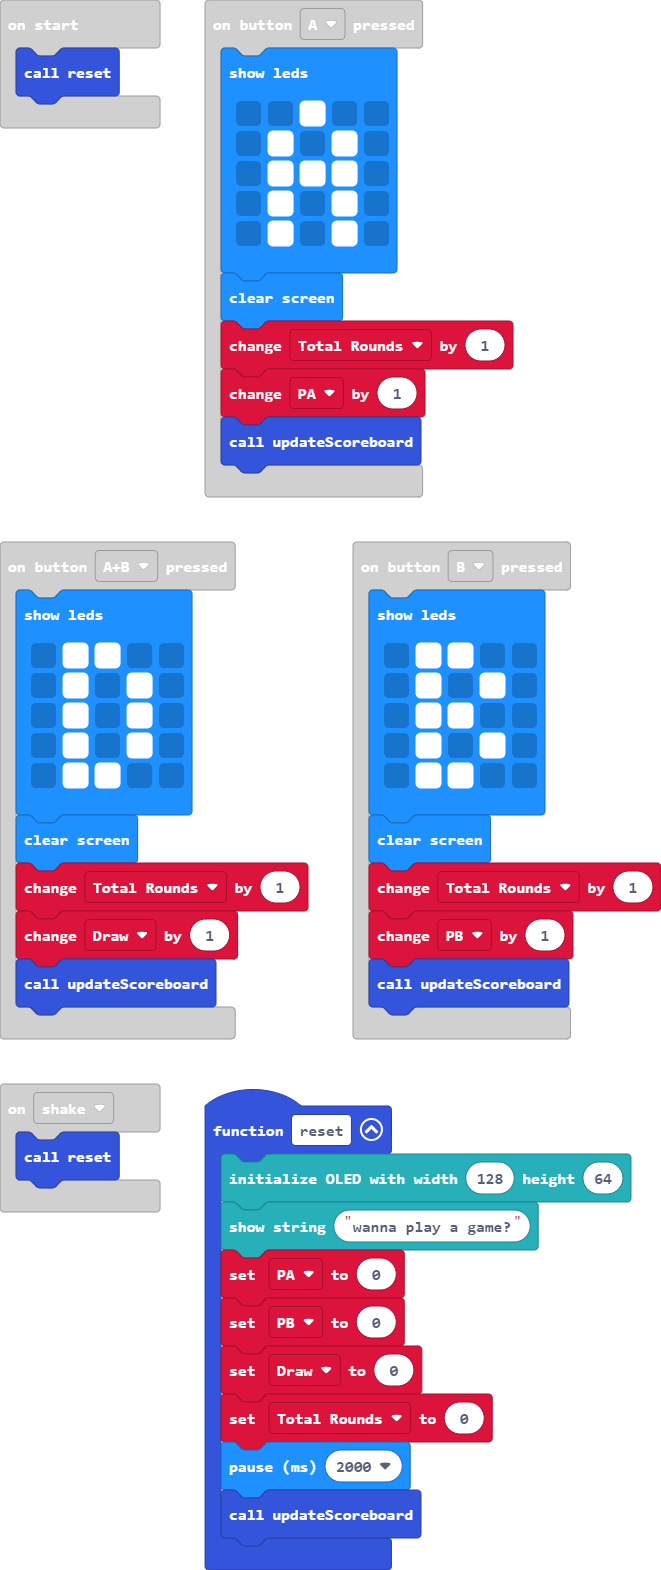
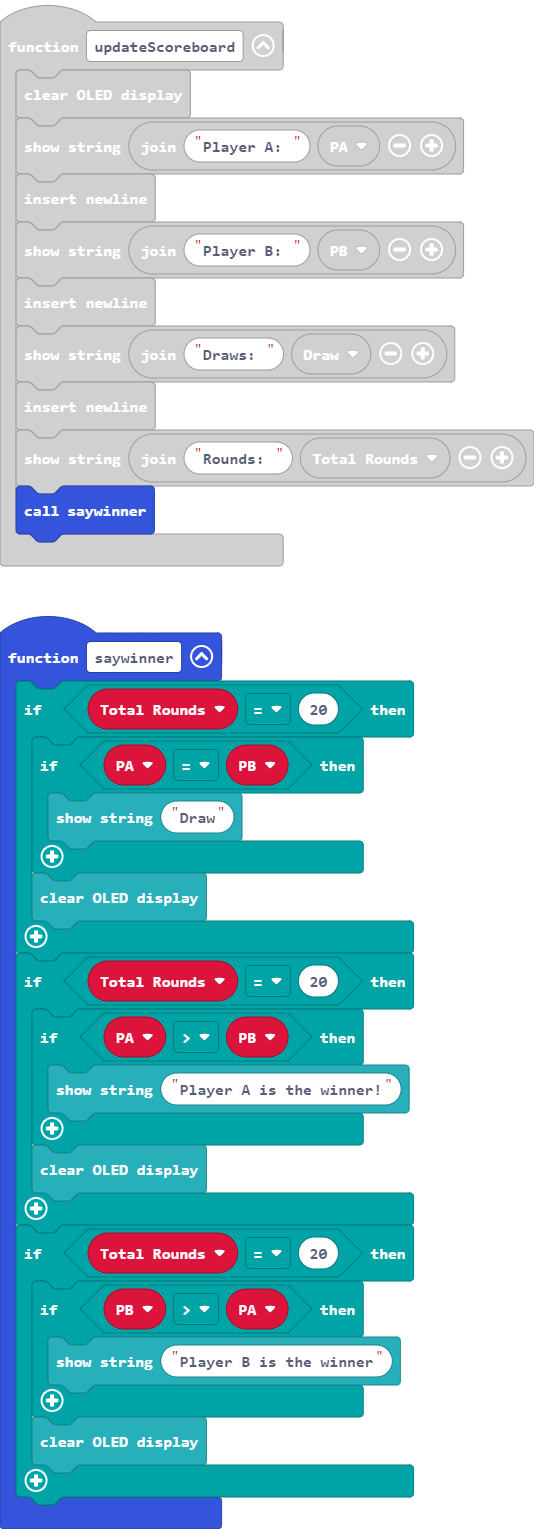
Update main.blocks, main.ts

diff --git a/main.ts b/main.ts
@@ -1,3 +1,23 @@
+function saywinner () {
+    if (Total_Rounds == 20) {
+        if (PA == PB) {
+            OLED.writeStringNewLine("Draw")
+        }
+        OLED.clear()
+    }
+    if (Total_Rounds == 20) {
+        if (PA > PB) {
+            OLED.writeStringNewLine("Player A is the winner!")
+        }
+        OLED.clear()
+    }
+    if (Total_Rounds == 20) {
+        if (PB > PA) {
+            OLED.writeStringNewLine("Player B is the winner")
+        }
+        OLED.clear()
+    }
+}
 function updateScoreboard () {
     OLED.clear()
     OLED.writeStringNewLine("Player A: " + PA)
@@ -7,6 +27,7 @@ function updateScoreboard () {
     OLED.writeStringNewLine("Draws: " + Draw)
     OLED.newLine()
     OLED.writeStringNewLine("Rounds: " + Total_Rounds)
+    saywinner()
 }
 input.onButtonPressed(Button.A, function () {
     basic.showLeds(`
@@ -60,8 +81,8 @@ function reset () {
     basic.pause(2000)
     updateScoreboard()
 }
-let Total_Rounds = 0
 let Draw = 0
 let PB = 0
 let PA = 0
+let Total_Rounds = 0
 reset()
